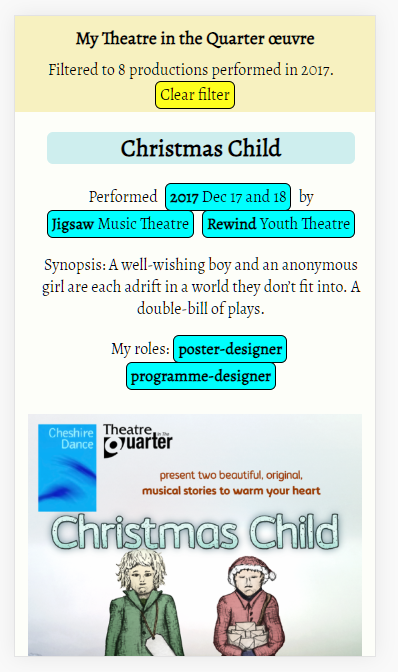
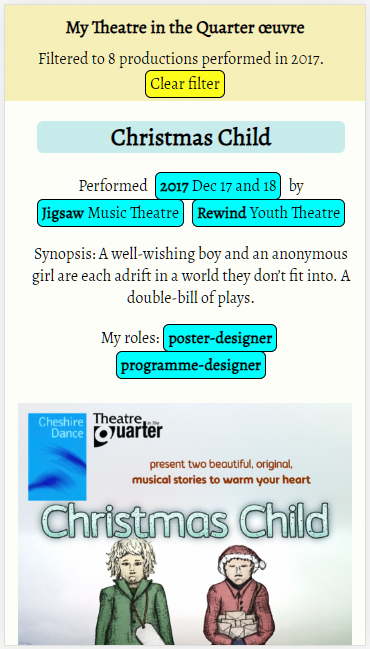
Added tiq-oeurve to js-projects & changed styling

diff --git a/code.html b/code.html
@@ -232,9 +232,14 @@
         <a class="index-link-a" href="https://duncanritchie.github.io/Calculator" title="My calculator">
           <img src="./screenshots/calculator.png" class="project-screenshot" alt="Screenshot of my calculator"/>
           <div>Calculator<br />
-            <span class="index-finish-date">(made with React.js &amp; finished 2019 Feb 26)</span>
+            <span class="index-made-with">
+              made with React.js<br/>
+            </span>
+            <span class="index-finish-date">
+              (finished 2019 Feb 26)
+            </span>
           </div>
-        </a>
+        </a>  
     </div>
     <!-- To-do list -->
     <div class="index-link-div">
@@ -246,7 +251,13 @@
         <a class="index-link-a" href="https://duncanritchie.github.io/ToDoList" title="My simple to-do list">
           <img src="./screenshots/simple-to-do-list.png" class="project-screenshot" alt="Screenshot of my simple to-do list"/>
           <div>Simple to-do list<br />
-            <span class="index-finish-date">(made with React.js &amp; finished 2019 Mar 01)</span></div>
+            <span class="index-made-with">
+              made with React.js<br/>
+            </span>
+            <span class="index-finish-date">
+              (finished 2019 Mar 01)
+            </span>
+          </div>
         </a>
     </div>
     <!-- Chat-room app -->
@@ -255,8 +266,12 @@
             <img src="./screenshots/chat-room-app.png" class="project-screenshot" alt="Screenshot of my chat-room app"/>
             <div>
               Chat-room app<br />
-              <span class="index-finish-date">(being made with React.js with four other devs)</span><br />
-              (not yet finished)<br />
+              <span class="index-made-with">
+                being made with React.js with four other devs<br/>
+              </span>
+              <span class="index-reason-no-demo">
+                (not yet finished)
+              </span>
           </div>
         </a>
     </div>
@@ -271,8 +286,12 @@
             <img src="./screenshots/train-times-app.png" class="project-screenshot" alt="Screenshot of my train-times app"/>
             <div>
               Train-times app<br />
-              <span class="index-finish-date">(being made with API calls, Express.js, and React.js with two other devs)</span><br />
-              (almost finished)
+              <span class="index-made-with">
+                being made with API calls, Express.js, and React.js with two other devs<br />
+              </span>
+              <span class="index-reason-no-demo">
+                (almost finished)
+              </span>
           </div>
         </a>
     </div>
@@ -282,8 +301,12 @@
           <img src="./screenshots/clocking-in-and-out-app.png" class="project-screenshot" alt="Screenshot of my clocking-in-and-out app"/>
           <div>
             Clocking-in-and-out app<br />
-            <span class="index-finish-date">(being made with React.js and MongoDB with 13 other devs)</span><br />
-            (not yet finished)<br />
+            <span class="index-made-with">
+              being made with React.js and MongoDB with 13 other devs<br />
+            </span>
+            <span class="index-reason-no-demo">
+              (not yet finished)
+            </span>
         </div>
       </a>
     </div>
@@ -293,7 +316,35 @@
           <img src="./screenshots/ios-single-player-dice-game.png" class="project-screenshot" alt="Screenshot of my iOS single-player dice game"/>
           <div>
             iOS single-player dice game<br />
-            <span class="index-finish-date">(made in Swift & finished 2019 Apr 10)</span>
+            <span class="index-made-with">
+              made in Swift<br />
+            </span>
+            <span class="index-finish-date">
+              (finished 2019 Apr 10)<br/>
+            </span>
+            <span class="index-reason-no-demo">
+              (no live demo because it&rsquo;s for iOS)
+            </span>
+          </div>
+        </a>
+  </div>
+  <!-- TiQ oeuvre -->
+  <div class="index-link-div">
+      <div class="github-link">
+        <a href="https://github.com/DuncanRitchie/tiq-oeuvre" title="Theatre in the Quarter &oelig;uvre code on Github">
+          <i class="fab fa-github-square" aria-label="Github"></i>
+        </a>
+      </div>
+      <a class="index-link-a" href="https://www.duncanritchie.co.uk/tiq-oeuvre/" title="My Theatre in the Quarter &oelig;uvre">
+          <img src="./screenshots/tiq-oeuvre-2017.png" class="project-screenshot" alt="Screenshot of my Theatre in the Quarter &oelig;uvre"/>
+          <div>
+            Theatre in the Quarter &oelig;uvre<br />
+            <span class="index-made-with">
+              made with React.js and Json data generated by an Excel spreadsheet that lists my voluntary work with this drama company<br />
+            </span>
+            <span class="index-finish-date">
+              (finished 2019 Apr 18, but I keep the data updated)
+            </span>
         </div>
       </a>
   </div>

diff --git a/main.css b/main.css
@@ -244,7 +244,7 @@ a:link {
     justify-content:space-evenly;
     text-decoration:none;
     color:teal;
-    font-weight:bold;
+    font-weight:bold
 }
 
 .index-link-a:hover {
@@ -260,9 +260,15 @@ a:link {
     padding:0 20px;
 }
 
+.index-made-with {
+    /* font-size is set in media queries */
+    font-weight:normal
+}
+
 .index-finish-date{
+    /* font-size is set in media queries */
     color:grey;
-    font-weight:normal;
+    font-weight:normal
 }
 
 .index-link-to-bad-page {
@@ -338,6 +344,10 @@ a:link {
         height:100vh;
         font-size:18px;
         padding: 36px 12px 0px 12px;
+    }
+
+    .index-made-with,.index-finish-date,.index-reason-no-demo {
+        font-size: 16px
     }
 }
 
